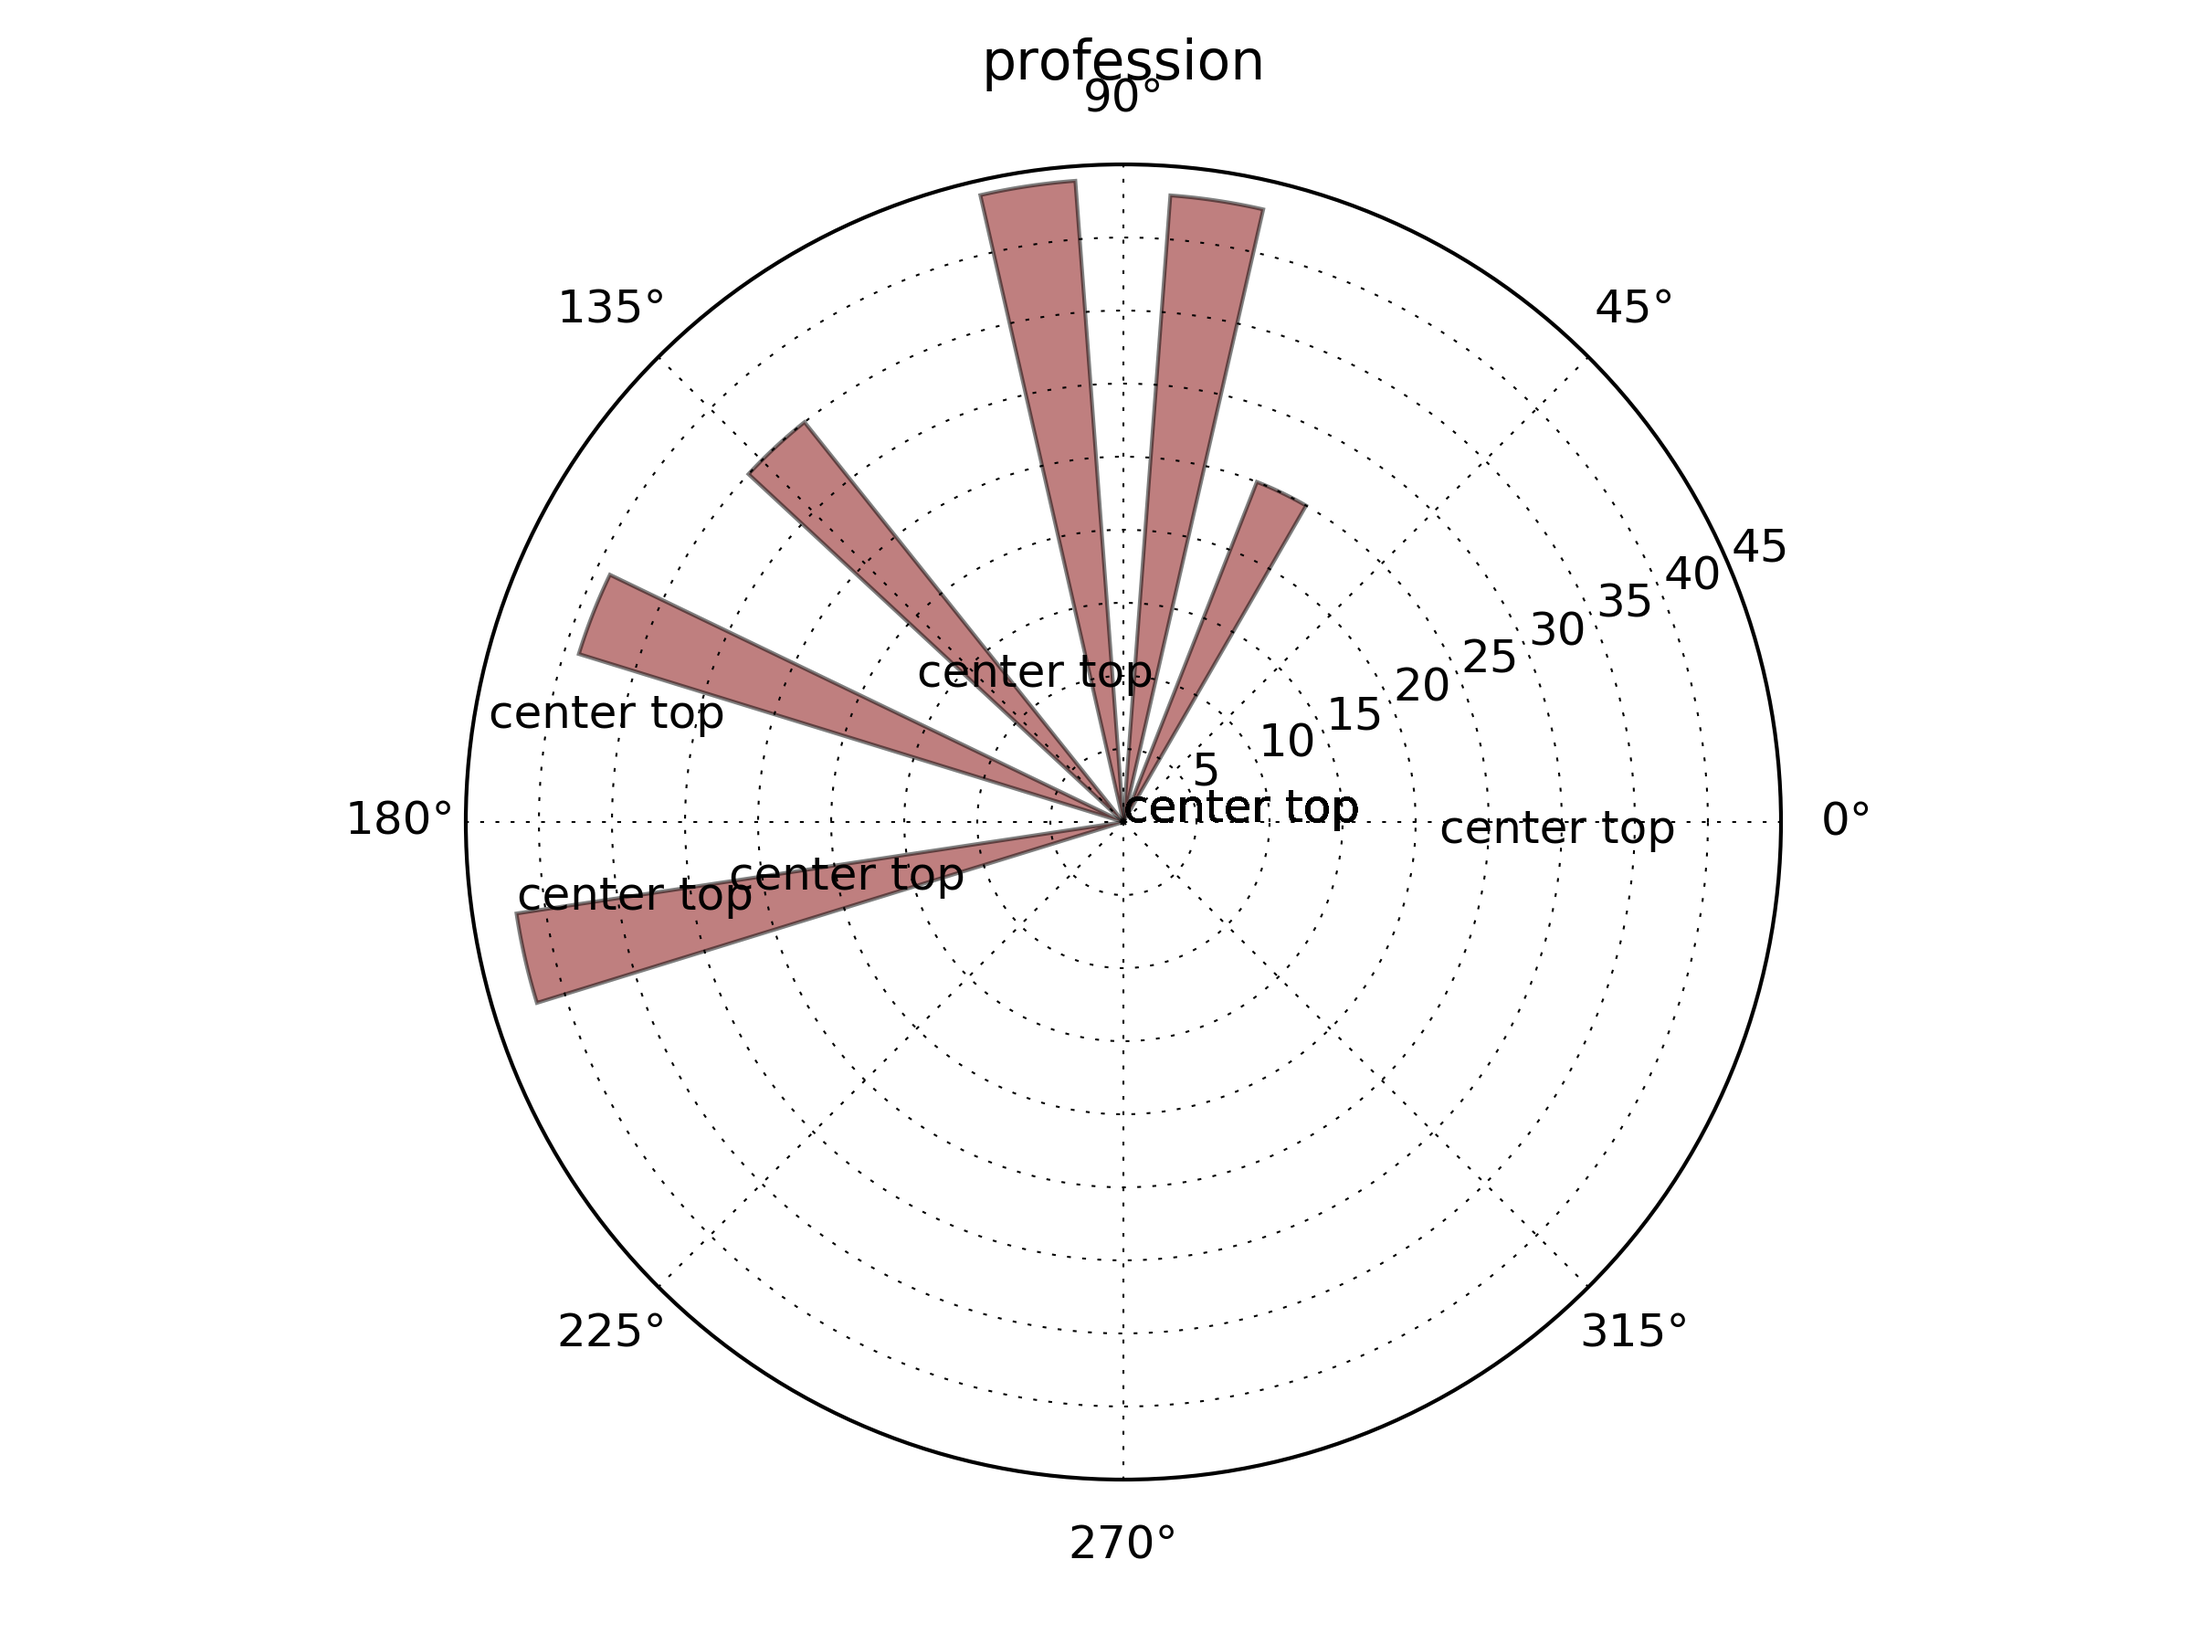
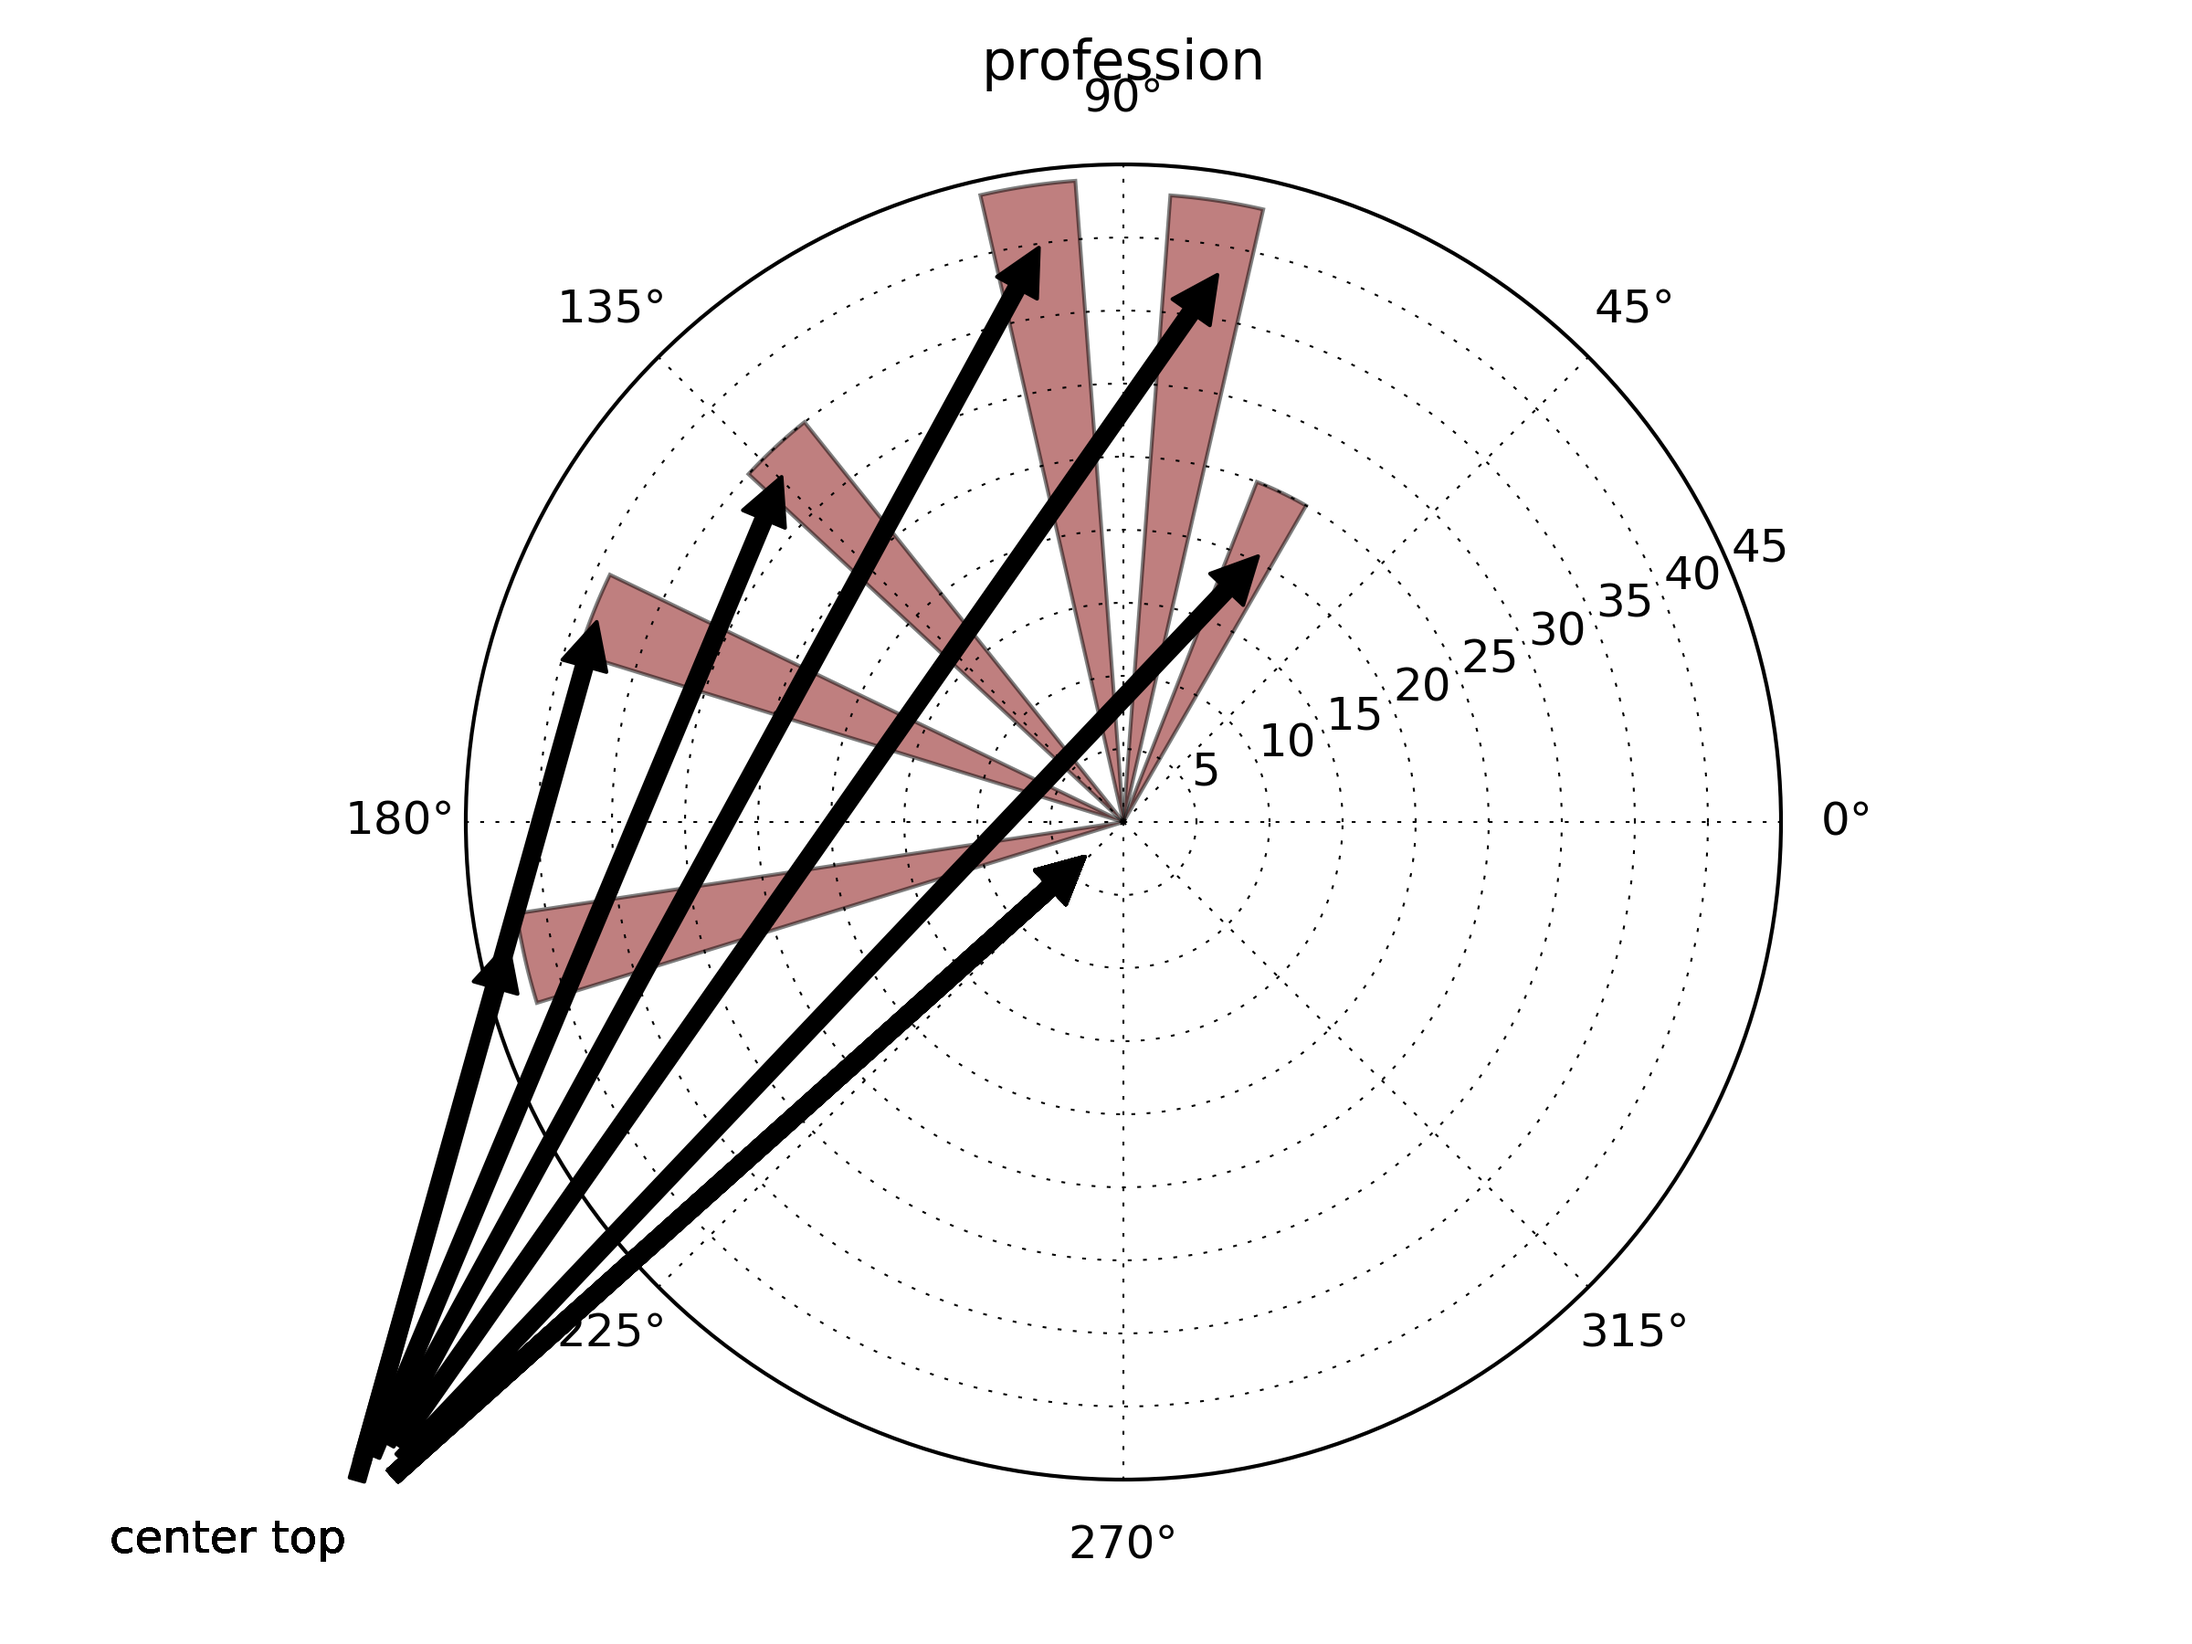
fix tests

diff --git a/wntf/graphs.py b/wntf/graphs.py
@@ -22,11 +22,15 @@ def wheel_radii(wheel, name):
 
     ax = plt.subplot(111, projection='polar')
     bars = ax.bar(theta, radii, width=width, bottom=0.0)
-    for r, bar in zip(radii, bars):
+    for r, theta, bar in zip(radii, theta, bars):
         bar.set_label(name)
         bar.set_facecolor(plt.cm.jet(r / 10.))
         bar.set_alpha(0.5)
-        ax.annotate('center top', (bar.get_x(), r), xycoords='polar')
+        ax.annotate('center top', (theta, r), xytext=(0.05, 0.05),    # fraction, fraction
+            textcoords='figure fraction',
+            arrowprops=dict(facecolor='black', shrink=0.05),
+            horizontalalignment='left',
+            verticalalignment='bottom')
     plt.title(name)
     plt.savefig('out/wheel_%s.png' % name, dpi=300, format='png')
     plt.show()

diff --git a/tests/test_wntf.py b/tests/test_wntf.py
@@ -10,7 +10,7 @@ Tests for `wntf` module.
 
 import unittest
 
-from wntf import wntf
+from wntf.algorithm import DiversityAlgorithm
 
 
 class TestWntf(unittest.TestCase):
